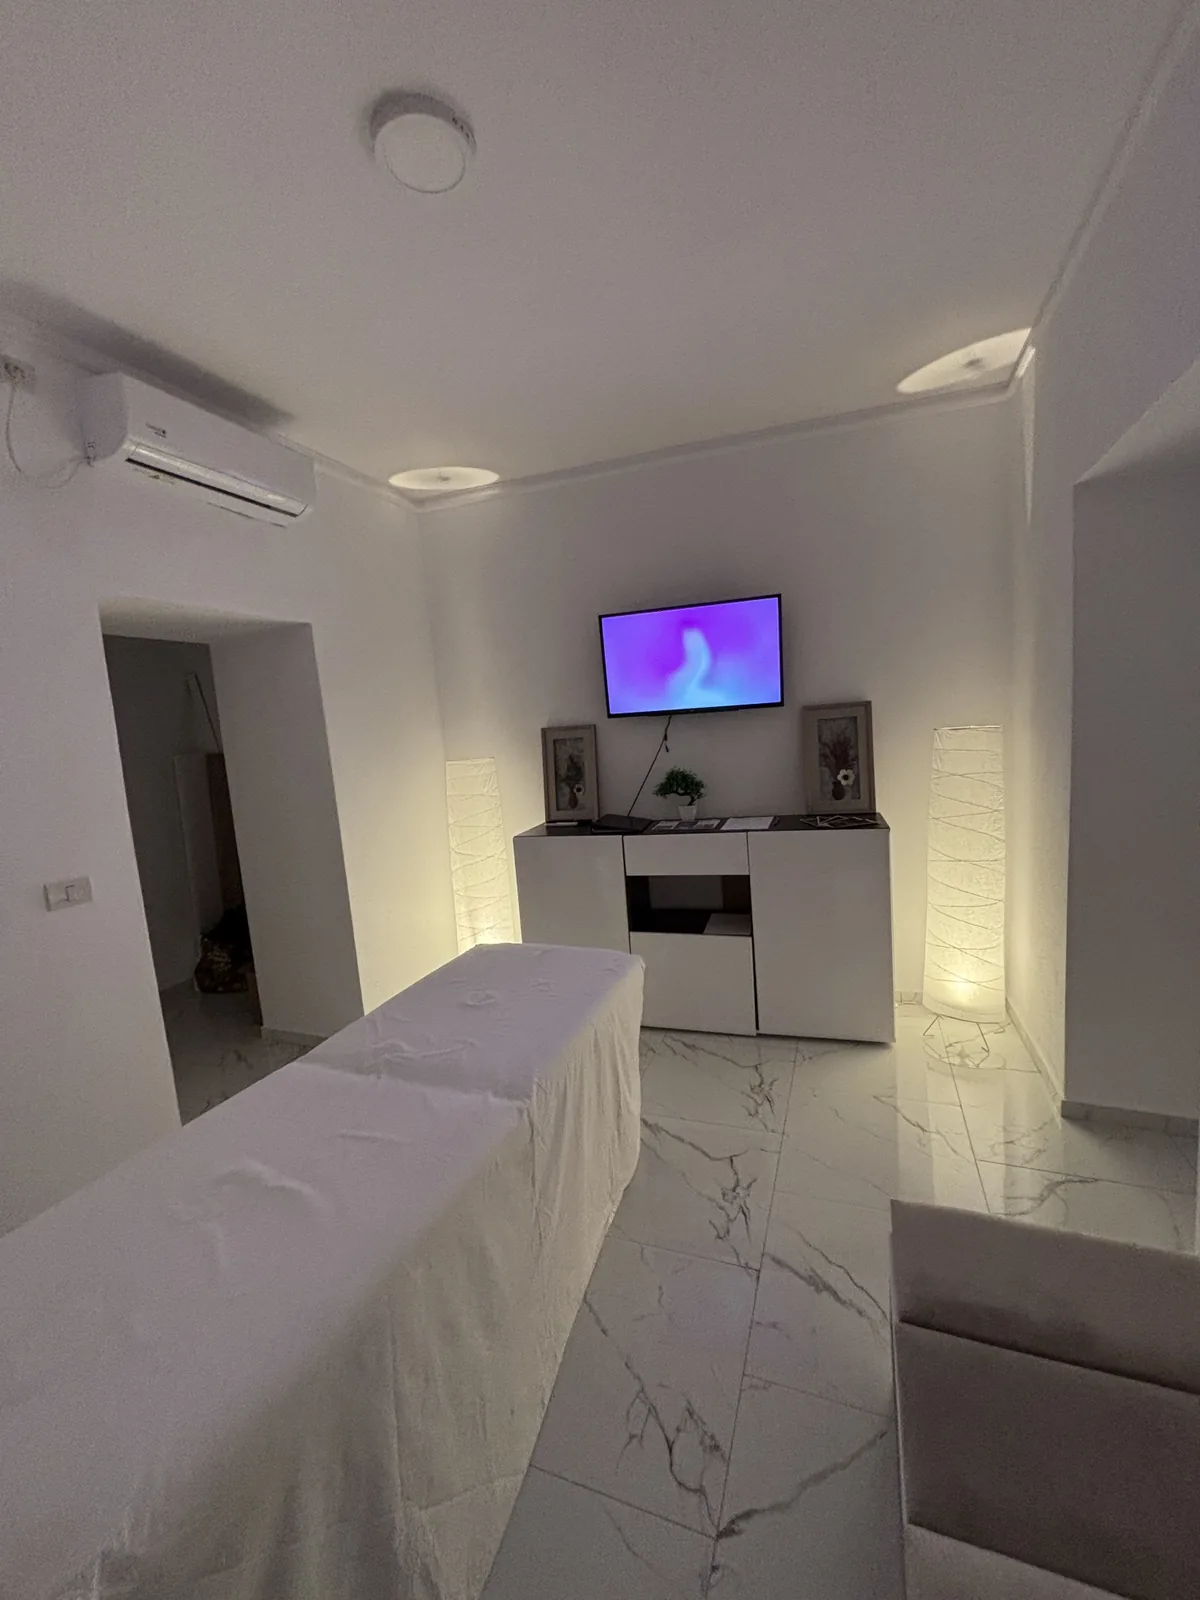
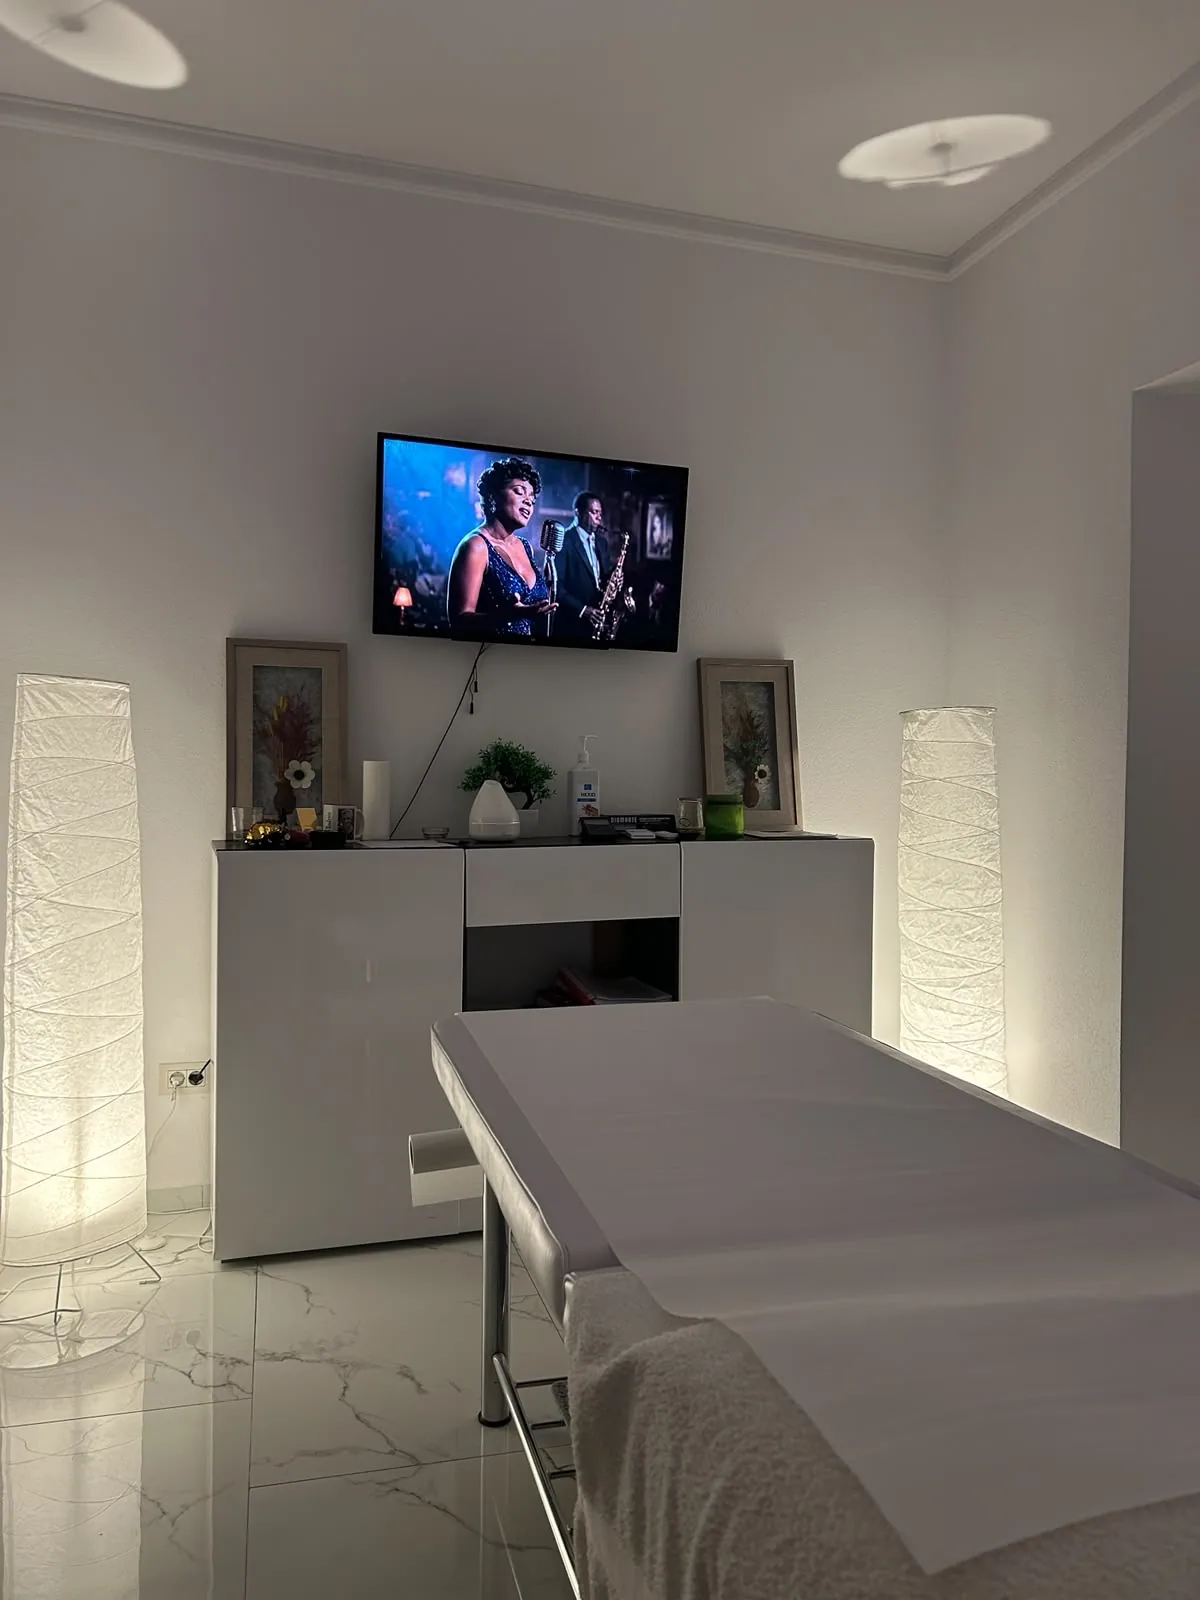
Site: poza nouă a salonului din Arad (pagina Arad și clinicile de pe prima pagină)
Claude-Session: https://claude.ai/code/session_01Spmkq9XUjVeahHX7Acx7df

diff --git a/v2/src/index.html b/v2/src/index.html
@@ -323,7 +323,7 @@ a.home-li:hover{ color:var(--ink); }
       </div>
     </div>
     <div class="card home-loc rv">
-      <a class="home-lp" href="{{base}}arad" tabindex="-1" aria-hidden="true"><img src="/brand_asset/loc-arad-sala.webp" alt="" width="1200" height="1600" loading="lazy"></a>
+      <a class="home-lp" href="{{base}}arad" tabindex="-1" aria-hidden="true"><img src="/brand_asset/loc-arad-sala.webp?v=2" alt="" width="1200" height="1600" loading="lazy"></a>
       <div class="home-lb">
         <span class="eye">Arad</span>
         <h3>Str. Ioan Alexandru 16-18</h3>

diff --git a/v2/index.html b/v2/index.html
@@ -377,7 +377,7 @@ a.home-li:hover{ color:var(--ink); }
       </div>
     </div>
     <div class="card home-loc rv">
-      <a class="home-lp" href="/v2/arad" tabindex="-1" aria-hidden="true"><img src="/brand_asset/loc-arad-sala.webp" alt="" width="1200" height="1600" loading="lazy"></a>
+      <a class="home-lp" href="/v2/arad" tabindex="-1" aria-hidden="true"><img src="/brand_asset/loc-arad-sala.webp?v=2" alt="" width="1200" height="1600" loading="lazy"></a>
       <div class="home-lb">
         <span class="eye">Arad</span>
         <h3>Str. Ioan Alexandru 16-18</h3>

diff --git a/index.html b/index.html
@@ -386,7 +386,7 @@ a.home-li:hover{ color:var(--ink); }
       </div>
     </div>
     <div class="card home-loc rv">
-      <a class="home-lp" href="/arad" tabindex="-1" aria-hidden="true"><img src="/brand_asset/loc-arad-sala.webp" alt="" width="1200" height="1600" loading="lazy"></a>
+      <a class="home-lp" href="/arad" tabindex="-1" aria-hidden="true"><img src="/brand_asset/loc-arad-sala.webp?v=2" alt="" width="1200" height="1600" loading="lazy"></a>
       <div class="home-lb">
         <span class="eye">Arad</span>
         <h3>Str. Ioan Alexandru 16-18</h3>

diff --git a/arad.html b/arad.html
@@ -189,7 +189,7 @@ gtag('js', new Date()); gtag('config', 'AW-16691853931');
       <div class="slot" data-slot="Arad"></div>
     </div>
   </div>
-  <figure class="cty-hero rv"><img src="/brand_asset/loc-arad-sala.webp" alt="Sala de tratament a clinicii Centrul360 Arad" width="1200" height="1600" fetchpriority="high"></figure>
+  <figure class="cty-hero rv"><img src="/brand_asset/loc-arad-sala.webp?v=2" alt="Sala de tratament a clinicii Centrul360 Arad" width="1200" height="1600" fetchpriority="high"></figure>
 </div></section>
 
 

diff --git a/v2/src/arad.html b/v2/src/arad.html
@@ -126,7 +126,7 @@ city: Arad
       <div class="slot" data-slot="Arad"></div>
     </div>
   </div>
-  <figure class="cty-hero rv"><img src="/brand_asset/loc-arad-sala.webp" alt="Sala de tratament a clinicii Centrul360 Arad" width="1200" height="1600" fetchpriority="high"></figure>
+  <figure class="cty-hero rv"><img src="/brand_asset/loc-arad-sala.webp?v=2" alt="Sala de tratament a clinicii Centrul360 Arad" width="1200" height="1600" fetchpriority="high"></figure>
 </div></section>
 
 

diff --git a/v2/arad.html b/v2/arad.html
@@ -180,7 +180,7 @@
       <div class="slot" data-slot="Arad"></div>
     </div>
   </div>
-  <figure class="cty-hero rv"><img src="/brand_asset/loc-arad-sala.webp" alt="Sala de tratament a clinicii Centrul360 Arad" width="1200" height="1600" fetchpriority="high"></figure>
+  <figure class="cty-hero rv"><img src="/brand_asset/loc-arad-sala.webp?v=2" alt="Sala de tratament a clinicii Centrul360 Arad" width="1200" height="1600" fetchpriority="high"></figure>
 </div></section>
 
 
